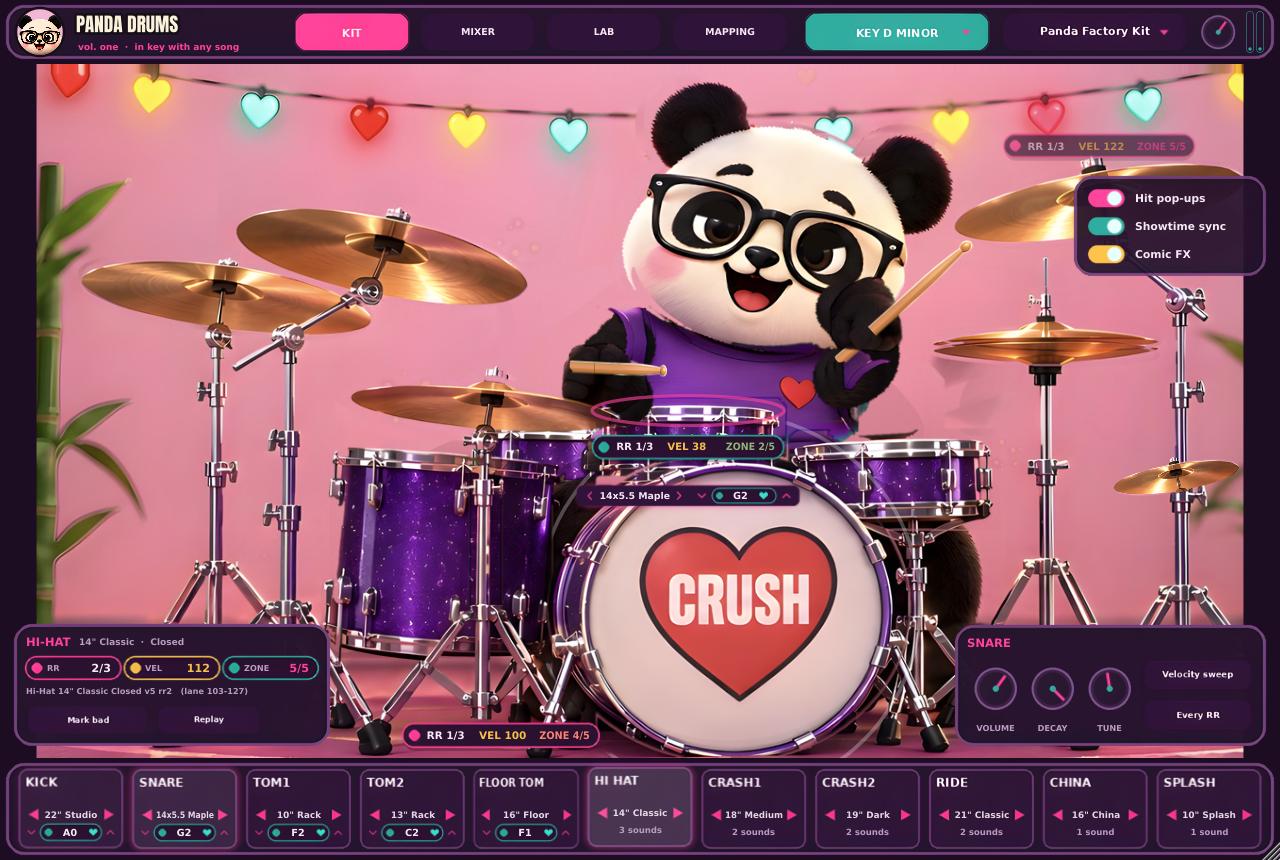
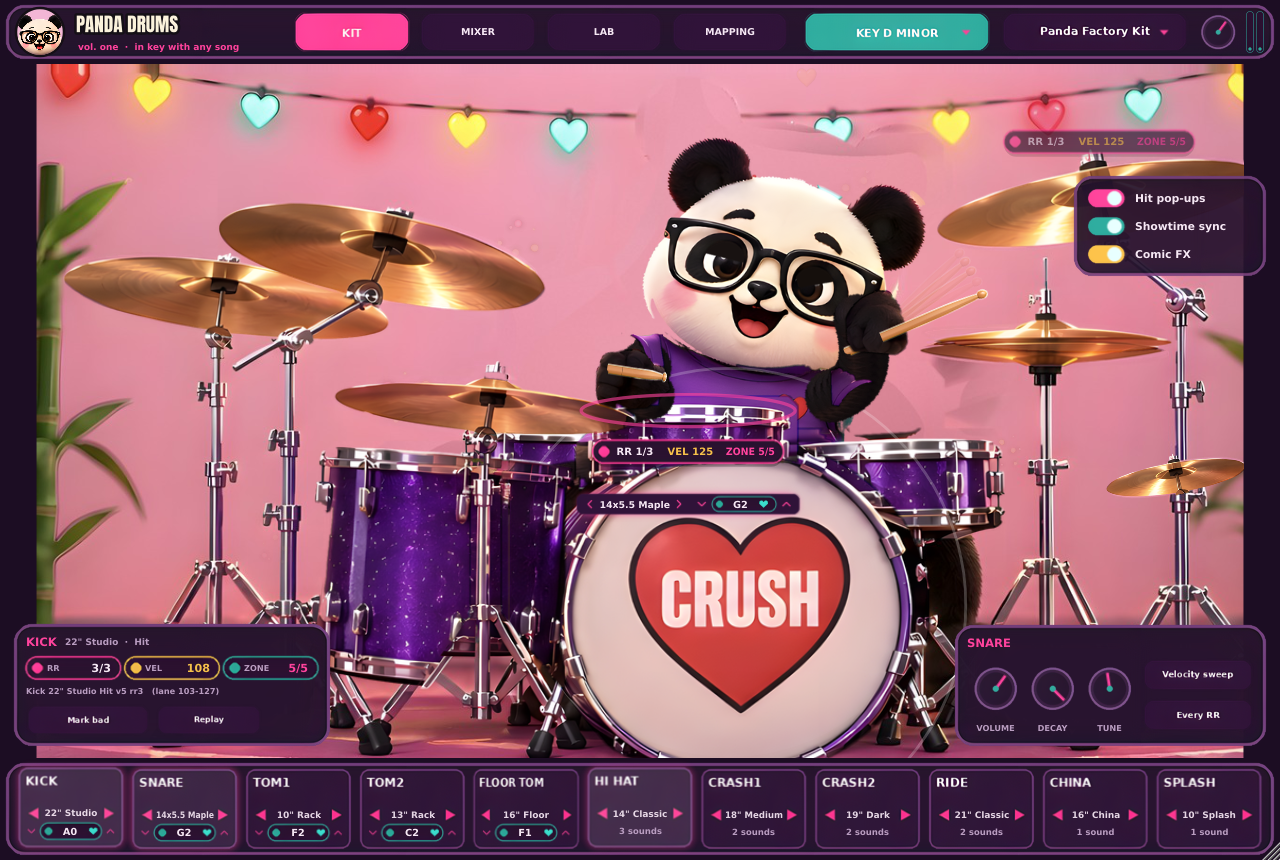
Panda Drums: fast sticks blur
A fast stick leaves a trail of where it was a few milliseconds before,
fainter the further back, the way a camera sees a drummer's downstroke.
Screenshots retaken with the rock kit.

Claude-Session: https://claude.ai/code/session_013gbFzy1iFcGMg21ZWdrFG4

diff --git a/apps/panda-drums/Source/gui/PandaStage.cpp b/apps/panda-drums/Source/gui/PandaStage.cpp
@@ -2159,6 +2159,31 @@ void PandaStage::drawArm (juce::Graphics& g, const Arm& a, int side)
         stickPart (false);
 }
 
+void PandaStage::drawStickBlur (juce::Graphics& g, const Hand& h, const Arm& a)
+{
+    // A fast stick blurs: where it was a few milliseconds ago, fainter the further back, the way a
+    // camera sees a drummer's downstroke.
+    auto& skin = Skin::get();
+    auto stick = skin.sprite (skin.at ("panda/stick/file").toString());
+    if (! stick.isValid())
+        return;
+    auto pivotY = Skin::number (skin.at ("panda/stick/pivot_y"), 142.0f);
+    auto picLen = Skin::number (skin.at ("panda/stick/length"), 138.0f);
+    for (int k = 4; k >= 1; --k)
+    {
+        auto was = armPose (h, now - 0.007 * k);
+        auto moved = was.tip.getDistanceFrom (a.tip);
+        if (moved < 9.0f || was.atRest)
+            continue;
+        auto alpha = juce::jlimit (0.0f, 0.42f, (moved - 9.0f) / 60.0f) * (1.0f - (float) k / 5.0f);
+        skin.draw (g, stick, juce::AffineTransform::translation (-stick.bounds.getWidth() * 0.5f, -pivotY)
+                                 .scaled (was.scale, was.tip.getDistanceFrom (was.pivot) / picLen)
+                                 .rotated (was.angle + juce::MathConstants<float>::halfPi)
+                                 .translated (was.pivot.x, was.pivot.y),
+                   alpha);
+    }
+}
+
 void PandaStage::paintRig (juce::Graphics& g, bool arms)
 {
     auto& skin = Skin::get();
@@ -2171,7 +2196,10 @@ void PandaStage::paintRig (juce::Graphics& g, bool arms)
         if (auto& a = shownArms[(size_t) side]; a.atRest)
             skin.draw (g, skin.sprite (skin.at ("panda/rest")[side].toString()), torsoTransform());
         else
+        {
+            drawStickBlur (g, hands[(size_t) side], a);
             drawArm (g, a, side);
+        }
     };
     if (! arms)
     {

diff --git a/apps/panda-drums/Source/gui/PandaStage.h b/apps/panda-drums/Source/gui/PandaStage.h
@@ -164,6 +164,7 @@ private:
     juce::AffineTransform headTransform() const;
     void paintRig (juce::Graphics&, bool arms);
     void drawArm (juce::Graphics&, const Arm&, int side);
+    void drawStickBlur (juce::Graphics&, const Hand&, const Arm&);
     juce::String skinKind (const PieceView&) const;        // which picture of the art a piece uses
     juce::String poseFor (const PieceView&) const;         // the panda's pose for hitting it
     void strikeFx (const PieceView&, int hand, float vel);

diff --git a/apps/panda-drums/art/README.md b/apps/panda-drums/art/README.md
@@ -49,6 +49,10 @@ cp ui/* ../Resources/ui/
   - how each hand holds its stick in the picture, in 3D (the stick's heading and pitch, solved
     from how it shows on screen), so his rest pose is exactly the picture's.
 
+  It's a rock kit, big around him: every drum and cymbal a size up on the picture's
+  (`KIT_GROW`), the panda a little smaller on his throne (`PANDA_SCALE`), so he sits behind it the
+  way a drummer does.
+
   The kit is laid out the way a real one is around the drummer:
   - on his left (the picture's right): the hi-hat, rack tom 1 and the first crash;
   - in front of him: the snare;
@@ -94,9 +98,9 @@ tooltip and the key panel from them.
 | Room | The picture's room; the heart lights glow, twinkle and flare with the kick. |
 | Drums | Scaled to the drum's size in inches; the head flashes and a ring runs across it on every hit. |
 | Cymbals | Swing on their stands; a flash of light across the bronze. The hi-hat opens with the pedal. |
-| Arms | At rest, the picture's own arms. Playing, each hand is its own fist from the picture, its arm a string of balls of his fur out of the sleeve, bending at the elbow, the stick across the front of the fist as in the picture. Each hand plays like a drummer's. The stick turns in 3D about the fulcrum in his fist, so it shortens on screen when it points at the drum. A stroke starts at the height its velocity needs: an accent gets an upstroke first, and a ghost note is an inch-high tap. The stick drops onto the head, faster and faster, and lands exactly when the hit sounds. It sits for a frame, then bounces back up to the height that hand has been playing at. The hand leads the stick down; the forearm joins in for the loud ones. As the sticks rise they open into a V, away from his face. Sticks lie nearly flat to a drum head, go across the hi-hat from the side, put the tip on the ride's bow and the shoulder on a crash's edge. |
+| Arms | At rest, the picture's own arms. Playing, each hand is its own fist from the picture, its arm a string of balls of his fur out of the sleeve, bending at the elbow, the stick across the front of the fist as in the picture. Each hand plays like a drummer's. The stick turns in 3D about the fulcrum in his fist, so it shortens on screen when it points at the drum. A stroke starts at the height its velocity needs: an accent gets an upstroke first, and a ghost note is an inch-high tap. The stick drops onto the head, faster and faster, and lands exactly when the hit sounds. It sits for a frame, then bounces back up to the height that hand has been playing at. The hand leads the stick down; the forearm and shoulder join in for the loud ones (a rock backbeat or crash starts with the stick up past vertical). A fast stick blurs, the way a camera sees a drummer's downstroke. As the sticks rise they open into a V, away from his face. Sticks lie nearly flat to a drum head, go across the hi-hat from the side, put the tip on the ride's bow and the shoulder on a crash's edge. |
 | Sticking | Open-handed: his left hand keeps time on the hi-hat, his right plays the snare and the ride. Fills go hand to hand around the toms, as far as each hand can reach. Each hand finishes the stroke it's on before it heads for the next drum, in an arc, the stick turning as it goes. |
-| Body | Leans into far reaches, bounces with the kick, breathes. His head nods to the beat, leans toward each hit and dips into it. Hands with nothing to play go back to the picture's sticks-up pose; arms up, sticks waving, when the song stops. |
+| Body | Leans into far reaches and turns with them, bounces with the kick, breathes. His head goes down hard on every beat (a rocker's nod), leans toward each hit and dips into it. Hands with nothing to play go back to the picture's sticks-up pose; arms up, sticks waving, when the song stops. |
 | Face | His grin while he plays; a blink every few seconds; a squint through a tom fill and on a solid china; a laugh on a big crash; a wink when idle; sad when you mark a hit bad. |
 | Effects | A stick streak and a spark on hard hits, hearts on big crashes. |
 
